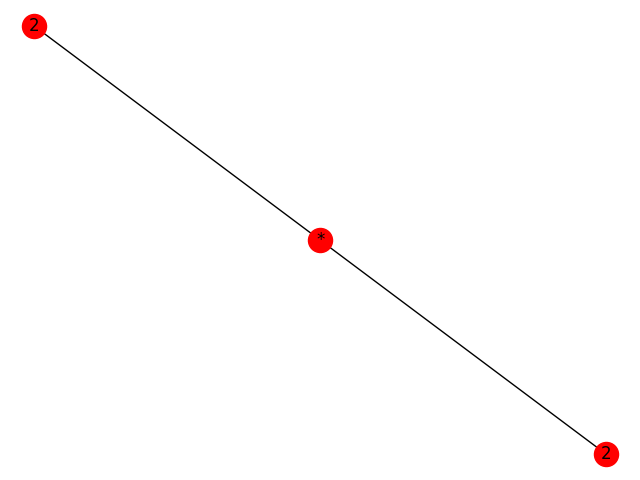
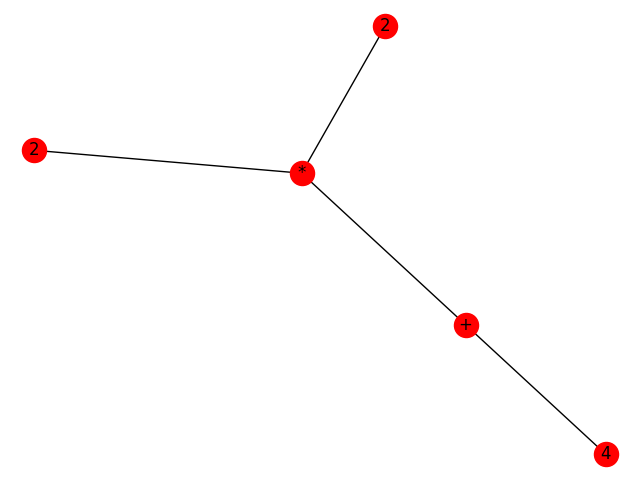
Construction de l'expression littérale

diff --git a/exploration.py b/exploration.py
@@ -2,7 +2,7 @@
 import random
 from Fourmis import *
 import pdb
-
+import sys
 
 #Définition des fonctions necessaires à l'algorithm
 def evaporation(pheromone):
@@ -18,7 +18,6 @@ def choisirNoeud(idNoeudCourant, graphe):
     voisins = list(graphe.neighbors(idNoeudCourant))
     position  =  random.randint(0, len(voisins)-1)
     idSuivant = voisins[position]
-    noeudCourant =  graphe.nodes[idSuivant]['value']
     return idSuivant
 
 def exploration(fourmi, idNoeudArbre, arbre, labeldict, graphe):
@@ -53,5 +52,33 @@ def exploration(fourmi, idNoeudArbre, arbre, labeldict, graphe):
     #Ne rien faire
     return arbre ,  idNoeudArbre
 
-def parcourir(arbre):
-    pass
+def parcourir(idNoeud, arbre, ancetre=None):
+    #sys.setrecursionlimit(10)
+    #Récupérer le noeud racine
+    racine = arbre.nodes[idNoeud]['value']
+    #Initialiser "Expression" à ""
+    localExpression = ""
+    #Initialiser le tableau des paramêtres à vide
+    parametres = []
+    #Si c'est une fonction
+    if(isFunction(racine)):
+        #Récupérer les fils
+        listDesFils =  list(arbre.neighbors(idNoeud))
+        #Pour chaque fils :
+        for i in listDesFils:
+            #récupérer la valeur
+            fils = arbre.nodes[i]['value']
+            #Si le noeud est une fonction :
+            if isFunction(fils):
+                #On vérifie si on ne va pas en arriere
+                if(i != ancetre):
+                    sortie = parcourir(i, arbre, idNoeud)
+                    #Ajouter l'expression dans le tableau des paramêtres
+                    parametres.append(sortie)
+            #Si le noeud est un terminal
+            else :
+                #Ajouter la valeur"dans le tableau des paramêtres
+                parametres.append(fils.valeur)
+    localExpression = racine.expression(parametres)
+    #Générer l'expression à partir du tableau des paramêtres
+    return localExpression

diff --git a/main.py b/main.py
@@ -18,6 +18,7 @@ from networkx.readwrite import json_graph
 #Initialisation des parametres de l'algorithme
 nbFourmis =  1
 nbGeneration = 1
+#fonctionSet = [Addition(), Multiplication(), Cos()]
 fonctionSet = [Addition(), Multiplication(), Cos()]
 terminalSet = [Variable("x"),Constante(2),Constante(4),]
 alpha = 0.1
@@ -34,7 +35,7 @@ idNode = 0
 
 #on defini le nombre de fonctions et de terminaux qu'on veux dans notre graphe
 nbTerminal = 10
-nbFonction = 10
+nbFonction = 5
 
 
 labeldict = {}
@@ -105,11 +106,15 @@ for generation in range(0, nbGeneration):
         idNoeudArbre =  idNoeudArbre + 1
         #==================== EXPLORATION ====================#
         arbre , idNoeudArbre = exploration(fourmi, idNoeudArbre, arbre, labeldict, graphe)
-        expressionLitterale = parcourir(arbre)
-
         nx.draw(arbre, labels=labeldict, with_labels = True)
+        
+        expressionLitterale = parcourir(0, arbre)
+        
+        print(expressionLitterale)
+
         plt.savefig("arbre.png") # save as png
         plt.show() # display'''
+        
 #============================================================================================================================================================================================
 #============================================================================================================================================================================================
 #============================================================================================================================================================================================

diff --git a/Fonctions/Multiplication.py b/Fonctions/Multiplication.py
@@ -3,3 +3,6 @@ class Multiplication:
     def __init__(self):
         self.valeur =  "*"
         self.nbParams =  2
+
+    def expression(self, tab):
+        return "("+str(tab[0])+self.valeur+str(tab[1])+")"

diff --git a/Fonctions/Addition.py b/Fonctions/Addition.py
@@ -3,3 +3,6 @@ class Addition:
     def __init__(self):
         self.valeur =  "+"
         self.nbParams =  2
+
+    def expression(self, tab):
+        return "("+str(tab[0])+self.valeur+str(tab[1])+")"

diff --git a/Fonctions/Cos.py b/Fonctions/Cos.py
@@ -3,3 +3,5 @@ class Cos:
     def __init__(self):
         self.valeur =  "cos"
         self.nbParams =  1
+    def expression(self, tab):
+        return "("+self.valeur+"("+str(tab[0])+")"+")"
